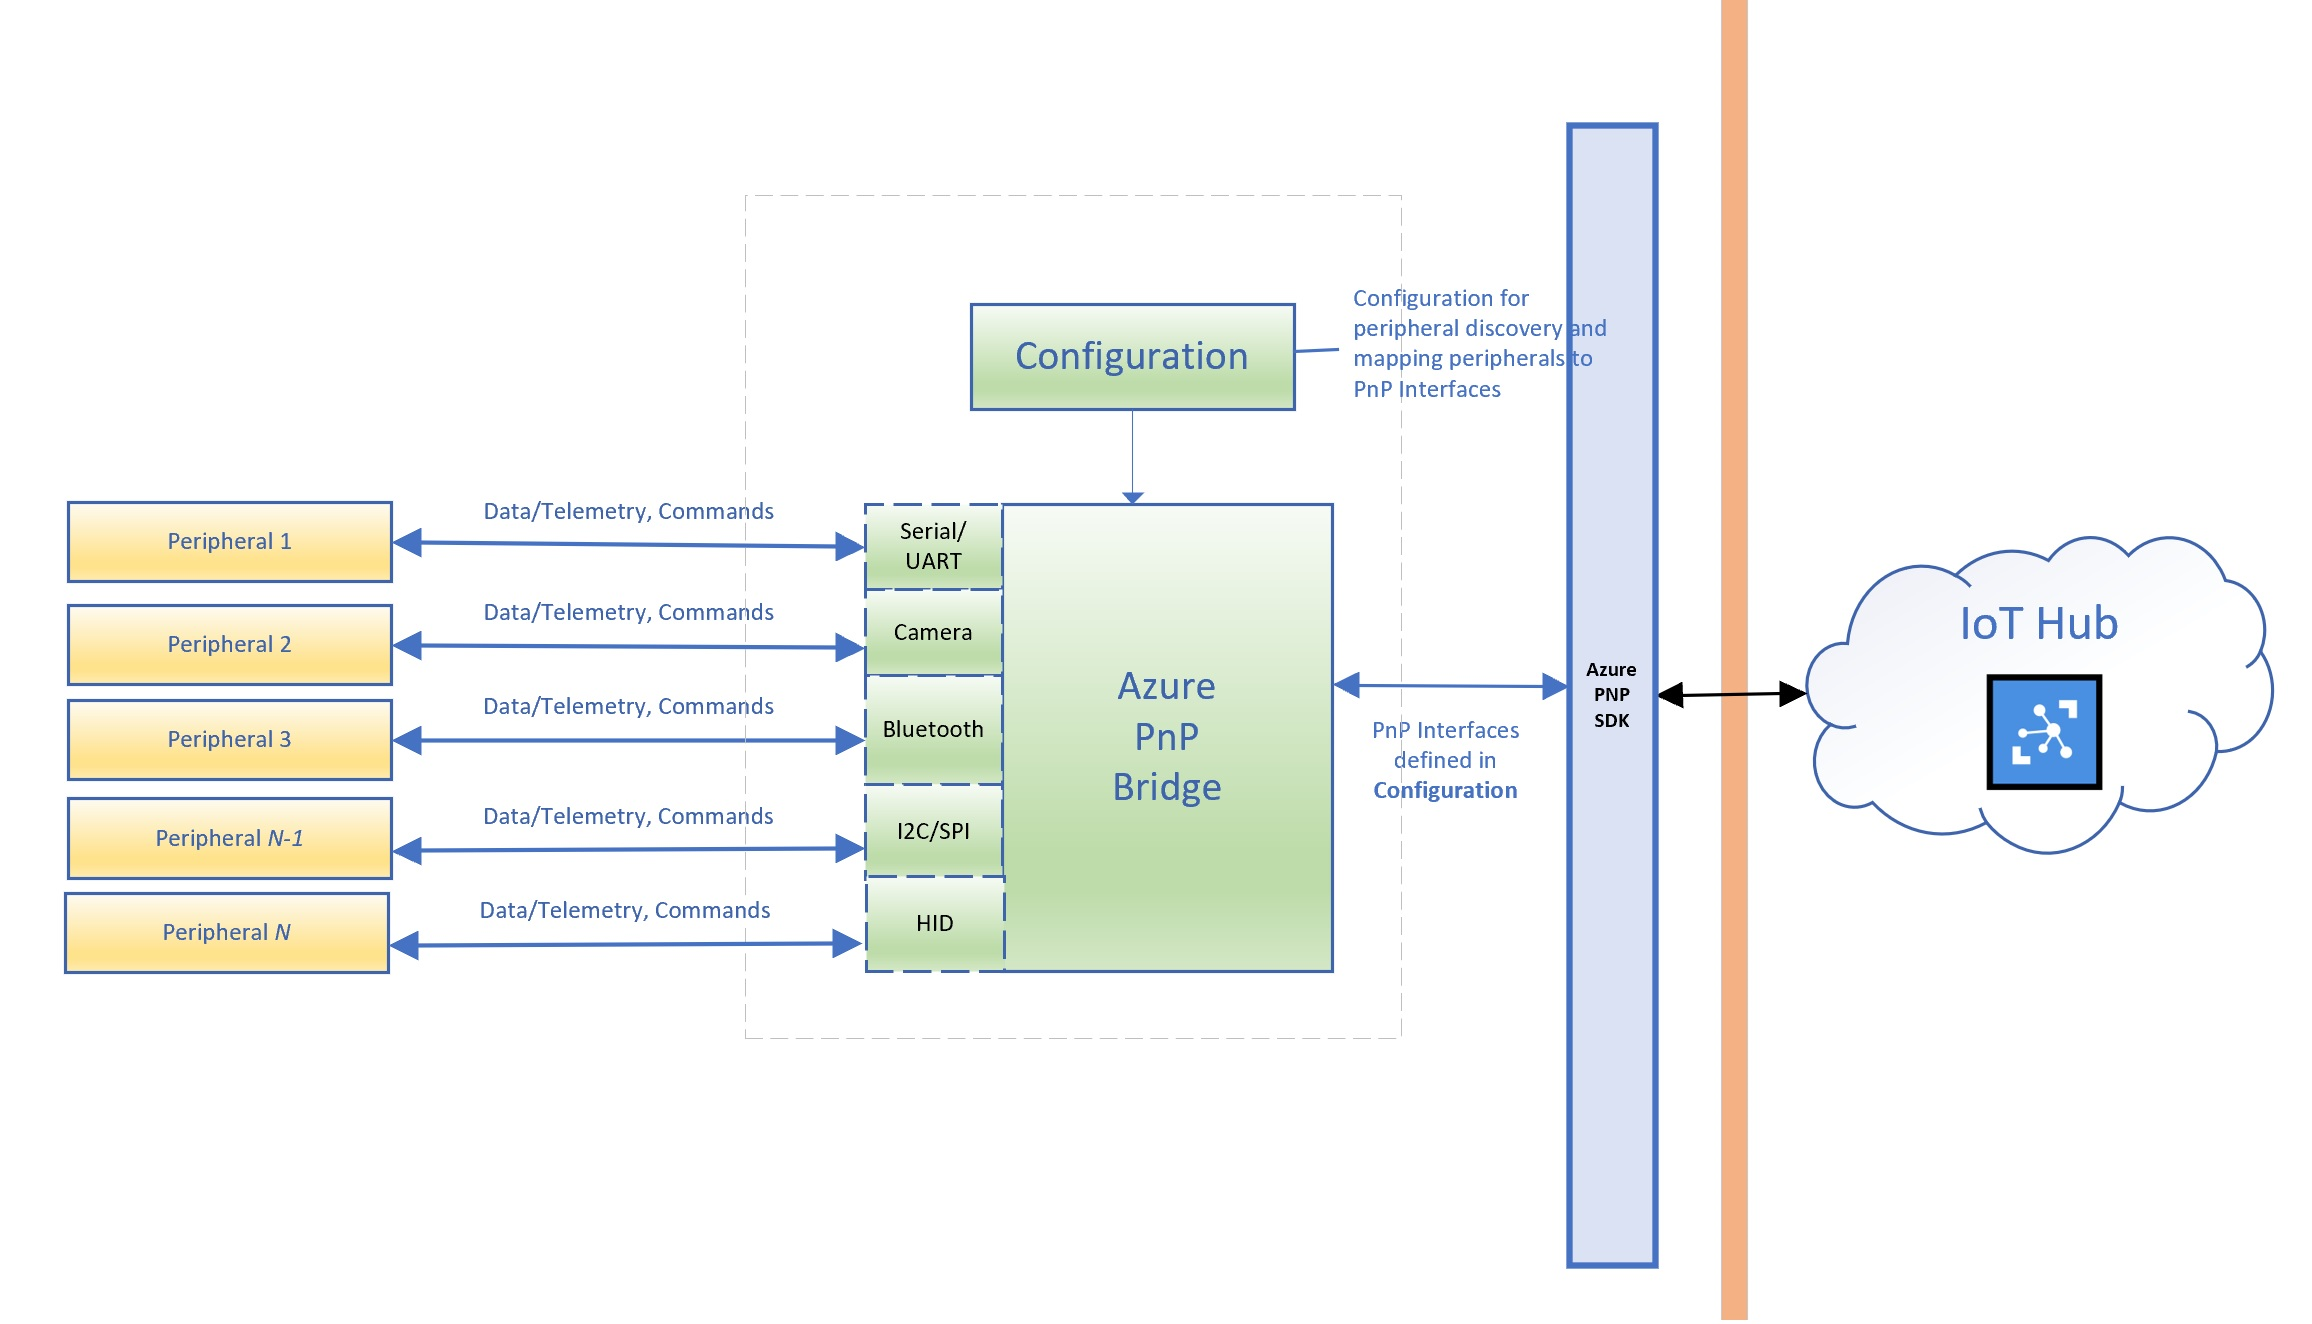
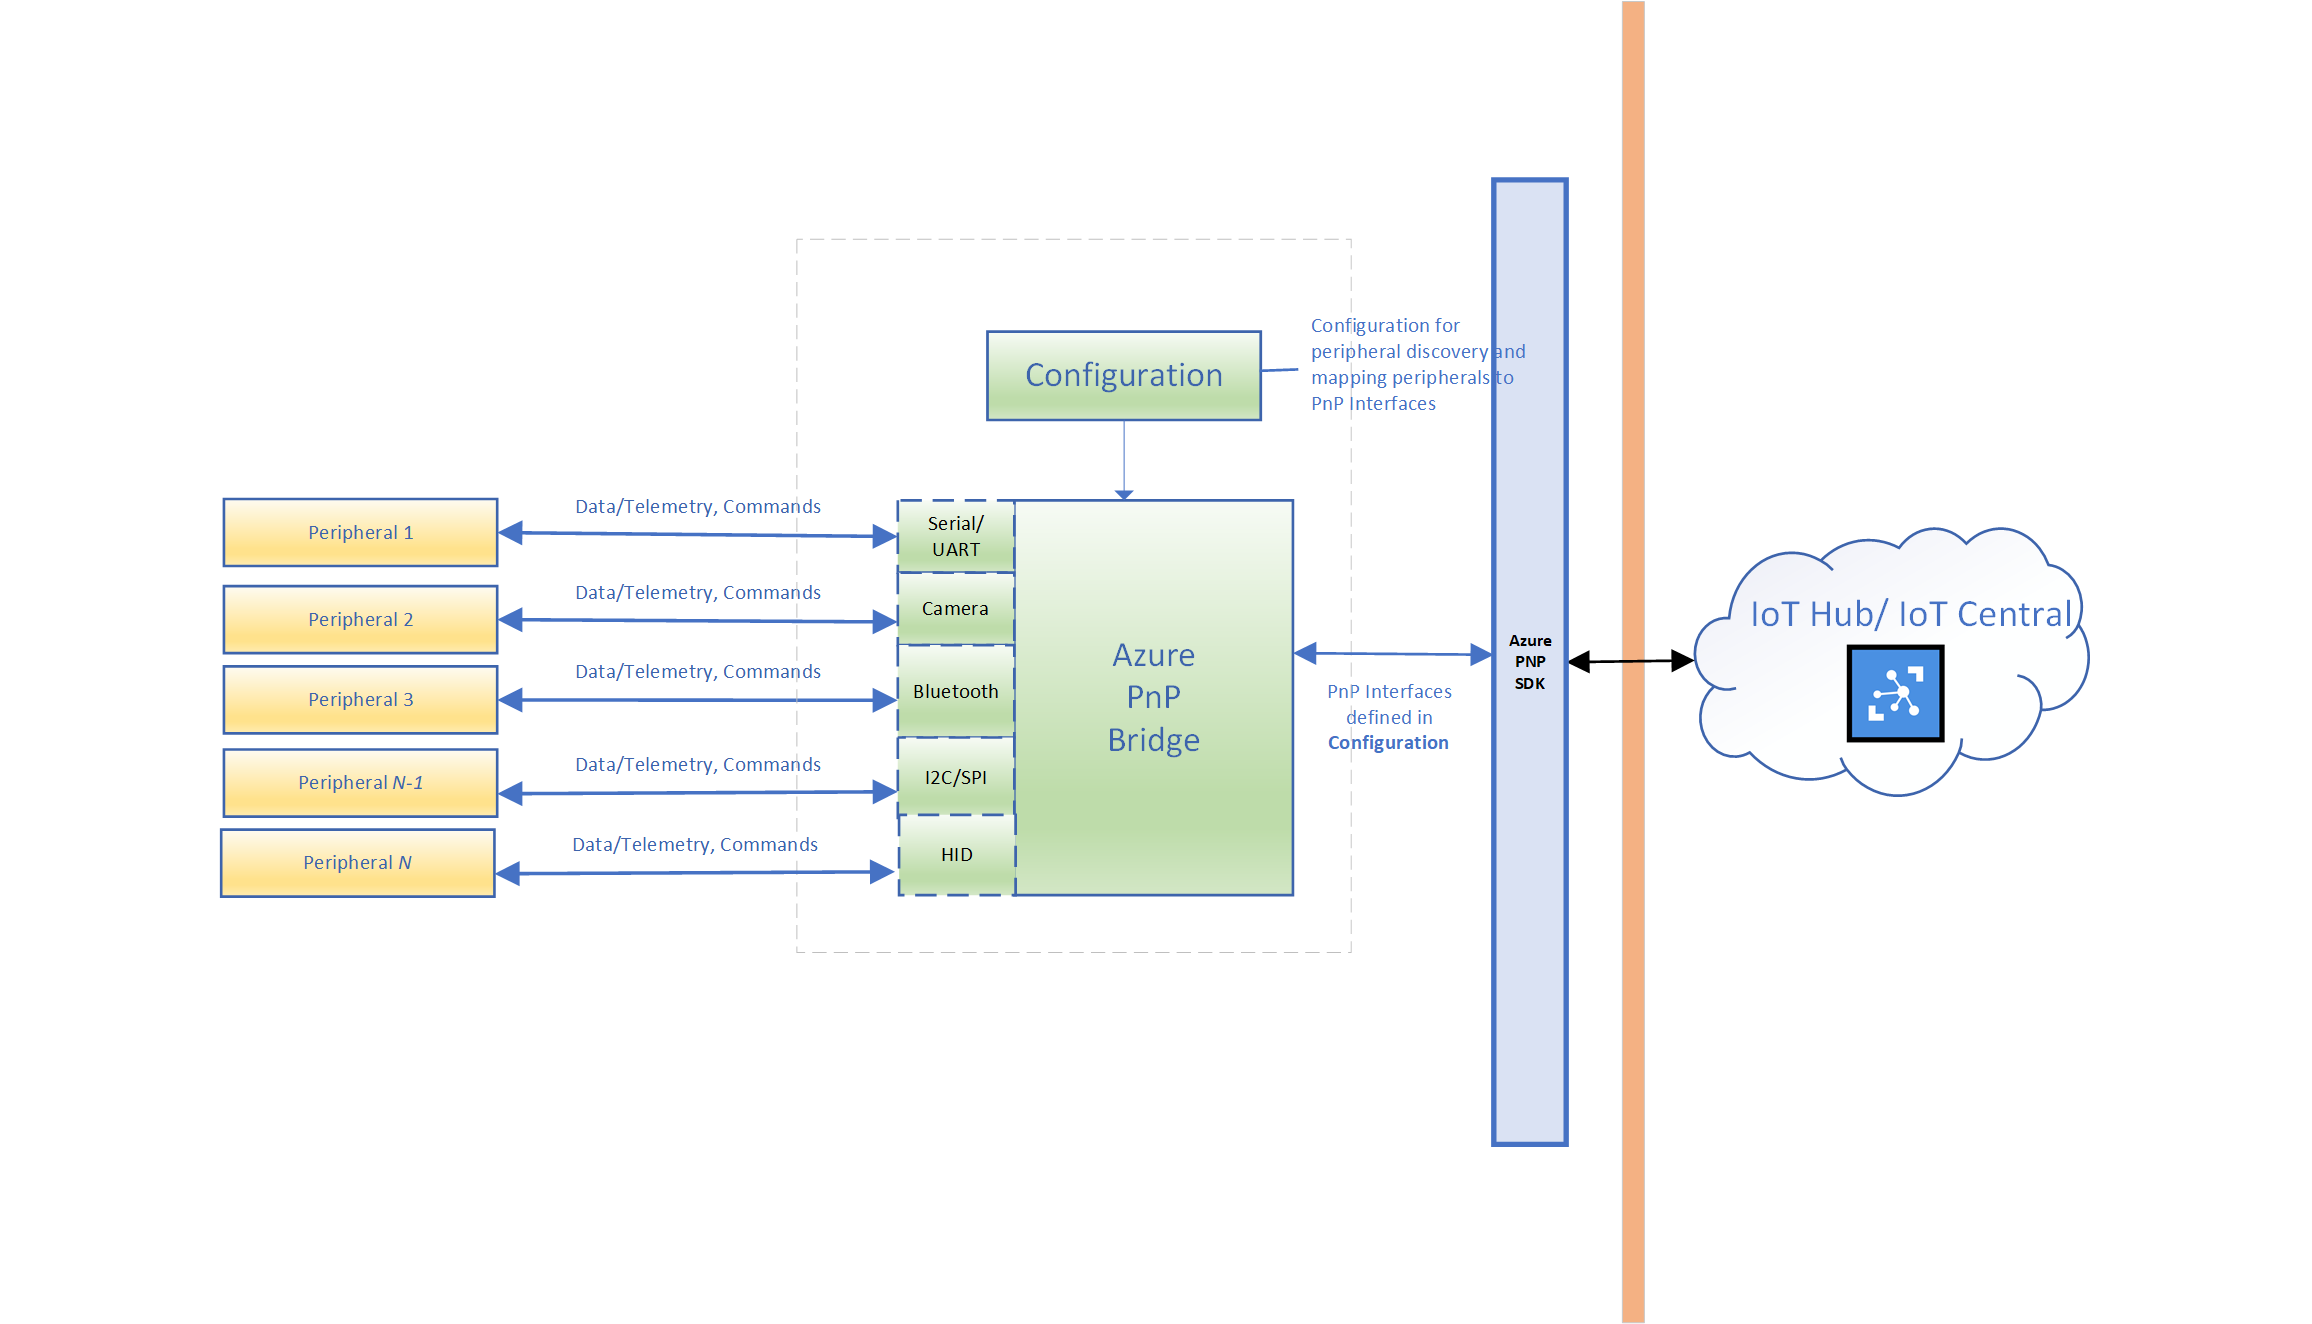
Updated Readme and Diagrams
Updated references to IoT Hub and IoT Central in documentation

Changed region(s): [[0.0, 0.0, 0.9654, 1.0], [0.4671, 0.4955, 0.5294, 0.6193]]

diff --git a/pnpbridge/ReadMe.md b/pnpbridge/ReadMe.md
@@ -142,7 +142,7 @@ Since this interface conponent has specified its hardware ID, the core device he
 
 ### Configuration file
 
-IoT Plug and Play bridge uses a configuration file to get the IoT Hub connection settings and to configure devices for which pnp interfaces will be published. The path to this configuration file can either be supplied to the bridge executable as a command line parameter or the binplaced config.json in the `pnpbridge\cmake\pnpbridge_x86\src\pnpbridge\samples\console` directory can be modified directly. In the future the configuration could come from cloud.
+IoT Plug and Play bridge uses a configuration file to get the IoT Central / IoT Hub connection settings and to configure devices for which pnp interfaces will be published. The path to this configuration file can either be supplied to the bridge executable as a command line parameter or the binplaced config.json in the `pnpbridge\cmake\pnpbridge_x86\src\pnpbridge\samples\console` directory can be modified directly. In the future the configuration could come from cloud.
 
 The schema for the configuration file is located under [**src\pnpbridge\src\pnpbridge_config_schema.json**](./src/pnpbridge/src/pnpbridge_config_schema.json).
 
@@ -191,7 +191,7 @@ The PnP Bridge Adapter interacts with the device using whichever communication p
 
 ### Bridge Core's Interaction with PnP Bridge Adapters
 
-When the bridge starts, the PnP Bridge Adapter manager looks through each interface component that is in the configuration file and calls `PNPBRIDGE_ADAPTER_CREATE` on the appropriate adapter. The adapter may utilize optional global adapter configuration parameters to set up resources to support the various “interface configurations”. For every device in the configuration file, the manager initiates interface creation by calling the corresponding PnP Bridge Adapter’s `PNPBRIDGE_INTERFACE_CREATE`. The adapter receives optional adapter configuration corresponding to the interface component and may use this information to set up connections with the device after create digital twin client interfaces and bind callback functions for property updates and commands. The establishment of device connections should not block the return of this callback after digital twin interface creation succeeds. This is such that the active device connection is made independent of the active interface client which the bridge expects to create. If a connection fails, this will imply the device is inactive and the adapter could choose to retry making this connection later. Once all the interface components specified in the configuration file are created the PnP Bridge Adapter manager curates and compiles the complete list of interfaces and registers them once with Azure IoT. Registration is an asynchronous and blocking call which on completion trigger a registration callback which is handled by the PnP Bridge Adapter after which it also starts handling property update and command callbacks from the cloud. The adapter manager then calls `PNPBRIDGE_INTERFACE_ START` on each component and the corresponding adapter start reporting telemetry to the digital twin client on the IoT hub.
+When the bridge starts, the PnP Bridge Adapter manager looks through each interface component that is in the configuration file and calls `PNPBRIDGE_ADAPTER_CREATE` on the appropriate adapter. The adapter may utilize optional global adapter configuration parameters to set up resources to support the various “interface configurations”. For every device in the configuration file, the manager initiates interface creation by calling the corresponding PnP Bridge Adapter’s `PNPBRIDGE_INTERFACE_CREATE`. The adapter receives optional adapter configuration corresponding to the interface component and may use this information to set up connections with the device after create digital twin client interfaces and bind callback functions for property updates and commands. The establishment of device connections should not block the return of this callback after digital twin interface creation succeeds. This is such that the active device connection is made independent of the active interface client which the bridge expects to create. If a connection fails, this will imply the device is inactive and the adapter could choose to retry making this connection later. Once all the interface components specified in the configuration file are created the PnP Bridge Adapter manager curates and compiles the complete list of interfaces and registers them once with Azure IoT. Registration is an asynchronous and blocking call which on completion trigger a registration callback which is handled by the PnP Bridge Adapter after which it also starts handling property update and command callbacks from the cloud. The adapter manager then calls `PNPBRIDGE_INTERFACE_ START` on each component and the corresponding adapter start reporting telemetry to the digital twin client on the IoT Central / IoT Hub.
 
 ### General Guidelines to Design a New PnP Bridge Adapter:
 
@@ -307,7 +307,7 @@ Modify the folowing parameters under **pnp_bridge_connection_parameters** node i
         },
         "dps_parameters" : {
           "global_prov_uri" : "[GLOBAL PROVISIONING URI] - typically it is global.azure-devices-provisioning.net",
-          "id_scope": "[IOT HUB ID SCOPE]",
+          "id_scope": "[IoT Central / IoT Hub ID SCOPE]",
           "device_id": "[DEVICE ID]"
         }
       }
